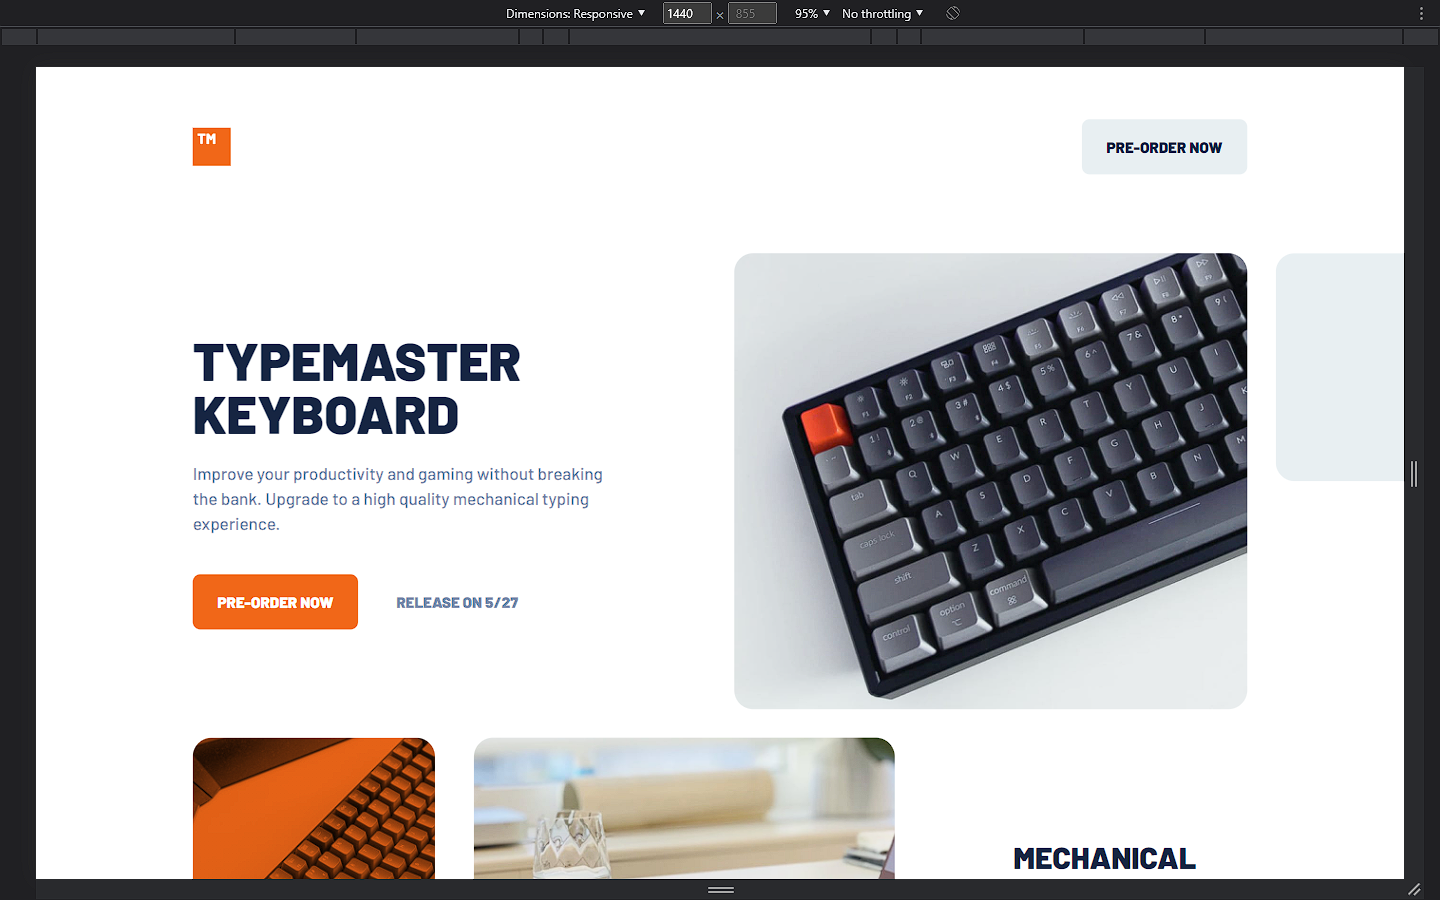
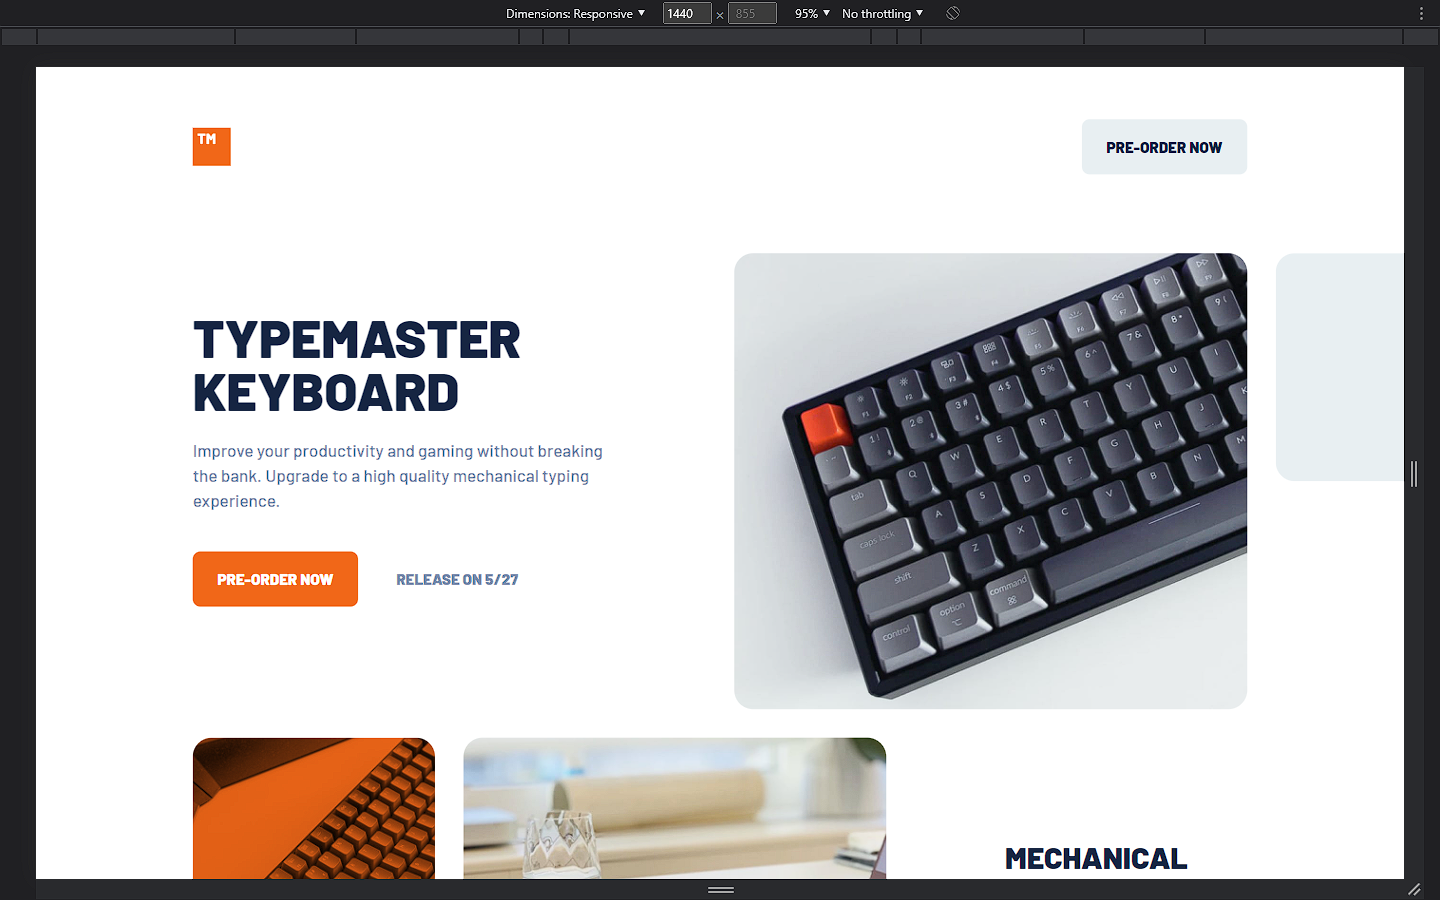
Modificação no espaçamento do site e alterações nas imagens do readme

diff --git a/assets/css/styles.css b/assets/css/styles.css
@@ -79,7 +79,8 @@ body {
   transition: 0.2s ease-in-out;
 }
 
-.btn:focus {
+.btn:focus,
+.btn-blue:active {
   outline: #68becd dotted 0.188rem;
 }
 
@@ -120,11 +121,18 @@ body {
 }
 
 /* KEYBOARD */
+.keyboard {
+  margin-bottom: 10.5rem;
+}
 .keyboard__home {
   grid-template-columns: 1fr auto;
-  align-items: center;
+  align-items: end;
   margin-bottom: 1.875rem;
   position: relative;
+}
+
+.keyboard__text {
+  padding-bottom: 6.75rem;
 }
 
 .keyboard__title {
@@ -170,10 +178,9 @@ body {
 }
 
 .keyboard__intro {
-  grid-template-columns: 3fr 1fr;
+  grid-template-columns: 8fr 4fr;
   align-items: center;
   position: relative;
-  margin-bottom: 10.5rem;
 }
 
 .keyboard__images {
@@ -184,17 +191,17 @@ body {
 }
 
 .keyboard__phone {
-  max-width: 15.938rem;
+  width: 15.938rem;
   height: 30rem;
   border-radius: 1.25rem;
+  background: url(../img/desktop/image-phone-and-keyboard.jpg);
+  background-color: #f16718;
   background-blend-mode: multiply;
-  background: url(../img/desktop/image-phone-and-keyboard.jpg),
-    linear-gradient(#f16718, #f16718);
   background-size: cover;
 }
 
 .keyboard__glass {
-  max-width: 27.813rem;
+  width: 27.813rem;
   height: 30rem;
   border-radius: 1.25rem;
   background-image: url(../img/desktop/image-glass-and-keyboard.jpg);
@@ -212,6 +219,10 @@ body {
 }
 
 /* FEACTURES */
+
+.section {
+  display: grid;
+}
 
 .feactures {
   display: grid;
@@ -239,28 +250,40 @@ body {
   max-width: 15.938rem;
 }
 
+/* FOOTER */
 .copy {
-  text-align: center;
+  margin-left: 568px;
+  margin-right: 600px;
   margin-bottom: 2.5rem;
+  white-space: nowrap;
 }
 
 /* RESPONSIVE */
-@media (max-width: 64rem) {
+@media (max-width: 66rem) {
+  .keyboard__home,
+  .keyboard__intro {
+    gap: 4.313rem;
+  }
+
   .keyboard__bg {
     width: 29.875rem;
     height: 26.563rem;
     background-image: url(../img/tablet/image-keyboard.jpg);
   }
+
+  .keyboard__glass {
+    width: 100%;
+    background-image: url(../img/tablet/image-glass-and-keyboard.jpg);
+    background-size: cover;
+  }
+
+  .btn-box {
+    gap: 2.313rem;
+  }
+
   .keyboard__details,
   .keyboard__details-rigth {
     display: none;
-  }
-  .keyboard__home,
-  .keyboard__intro {
-    gap: 4.313rem;
-  }
-  .btn-box {
-    gap: 2.313rem;
   }
 }
 
@@ -269,27 +292,18 @@ body {
     padding: 2.5rem 0 3.875rem;
   }
 
-  .keyboard__home {
-    grid-template-columns: 21.188rem 1fr;
-    margin-bottom: 2.5rem;
-  }
-
-  .keyboard__intro {
+  .keyboard {
     margin-bottom: 8.875rem;
   }
 
-  .keyboard__phone {
-    width: 13.375rem;
-    height: 20rem;
-    background: url(../img/tablet/image-phone-and-keyboard.jpg),
-      linear-gradient(#f16718, #f16718);
-    background-size: cover;
+  .keyboard__home {
+    grid-template-columns: 21.188rem 1fr;
+    margin-bottom: 2.5rem;
+    align-items: center;
   }
 
-  .keyboard__glass {
-    max-width: 100%;
-    height: 20rem;
-    background-image: url(../img/tablet/image-glass-and-keyboard.jpg);
+  .keyboard__text {
+    padding-bottom: 0;
   }
 
   .keyboard__img {
@@ -312,11 +326,22 @@ body {
     align-items: center;
     gap: 4.5rem;
     position: relative;
-    margin-bottom: 8.875rem;
   }
 
   .keyboard__images {
     grid-template-columns: 13.375rem 1fr;
+  }
+
+  .keyboard__phone {
+    width: 13.375rem;
+    height: 20rem;
+    background: url(../img/tablet/image-phone-and-keyboard.jpg),
+      linear-gradient(#f16718, #f16718);
+    background-size: cover;
+  }
+
+  .keyboard__glass {
+    height: 20rem;
   }
 
   .keyboard__box {
@@ -355,6 +380,11 @@ body {
   .btn-blue {
     padding: 0.688rem 0.938rem;
   }
+
+  .keyboard {
+    margin-bottom: 6.938rem;
+  }
+
   .keyboard__home {
     grid-template-columns: 1fr;
     gap: 4rem;
@@ -362,7 +392,6 @@ body {
   }
   .keyboard__text {
     text-align: center;
-    margin-right: 0;
   }
   .keyboard__title,
   .keyboard__desc {
@@ -371,6 +400,7 @@ body {
 
   .btn-box {
     gap: 2rem;
+    justify-content: center;
   }
 
   .btn-orange {
@@ -450,14 +480,14 @@ body {
     text-align: left;
   }
 
+  .btn-box {
+    justify-content: start;
+  }
+
   .keyboard__bg {
     width: 23.25rem;
     height: 20.688rem;
     background-image: url(../img/mobile/image-keyboard.jpg);
-  }
-
-  .keyboard__intro {
-    margin-bottom: 6.938rem;
   }
 
   .keyboard__images {
@@ -523,7 +553,7 @@ body {
   .btn-box {
     flex-direction: column;
     align-items: flex-start;
-    gap: 2rem;
+    gap: 1rem;
   }
 
   .keyboard__bg {

diff --git a/index.html b/index.html
@@ -24,7 +24,7 @@
 
   <main>
     <!-- KEYBOARD -->
-    <section class="container">
+    <section class="keyboard container">
       <div class="keyboard__home grid">
         <div class="keyboard__text">
           <h1 class="keyboard__title font-h1">Typemaster keyboard</h1>
@@ -58,8 +58,8 @@
             top-notch build and practical design. It offers a wide variety of switches and keycaps, along with reliable wireless connectivity.</p>
         </div>
 
-        <svg aria-hidden="true" class="keyboard__details-rigth" width="255" height="240" xmlns="http://www.w3.org/2000/svg">
-          <rect width="255" height="240" rx="20" fill="#E8EFF2" fill-rule="evenodd" />
+        <svg aria-hidden="true" class="keyboard__details-rigth" width="255" height="236" xmlns="http://www.w3.org/2000/svg">
+          <rect width="255" height="236" rx="20" fill="#E8EFF2" fill-rule="evenodd" />
         </svg>
       </div>
     </section>
@@ -84,7 +84,7 @@
               <path d="M11.947 13.93l5.974-5.999a1.653 1.653 0 00-.25-2.537L10.076.282a1.663 1.663 0 00-2.592 1.37v7.942L3.533 5.6a1.641 1.641 0 00-2.326-.01 1.652 1.652 0 00-.01 2.336l5.953 6.002-5.953 6.002a1.653 1.653 0 00.01 2.338 1.64 1.64 0 002.326-.01l3.95-3.994v7.941c0 .61.348 1.172.887 1.459a1.659 1.659 0 001.705-.09l7.596-5.11a1.655 1.655 0 00.25-2.538l-5.974-5.996zm-1.111-9.173l3.358 2.26-3.358 3.372V4.757zm0 18.348v-5.632l3.358 3.372-3.358 2.26z" fill="#FFF" fill-rule="nonzero" />
             </svg>
           </div>
-          <h3 class="feactures__title font-h3">WIRELESS
+          <h3 class="feactures__title font-h3">WIRELESS<br>
             WITH BLUETOOTH
           </h3>
           <p class="feactures__desc font-body">Powerful 2.4G RF technology allows you to connect the cordless keyboard from up to 30ft away. Simply plug the unifying receiver into your computer.</p>
@@ -119,6 +119,7 @@
   <footer class="copy container">
     <p class="font-body"> <strong>Typemaster 2021</strong> | All Rights Reserved</p>
   </footer>
+
 </body>
 
 </html>

diff --git a/README.md b/README.md
@@ -107,6 +107,8 @@
 
   <img alt="Typemaster pre-launch landing page" title="" src="./readme/desktop2.png">
 
+   <img alt="Typemaster pre-launch landing page" title="" src="./readme/desktop3.png">
+
   <!-- <img alt="NextLevelWeek" title="#NextLevelWeek" src="./assets/sucesso-web.svg" width="400px"> -->
 </p>
 
